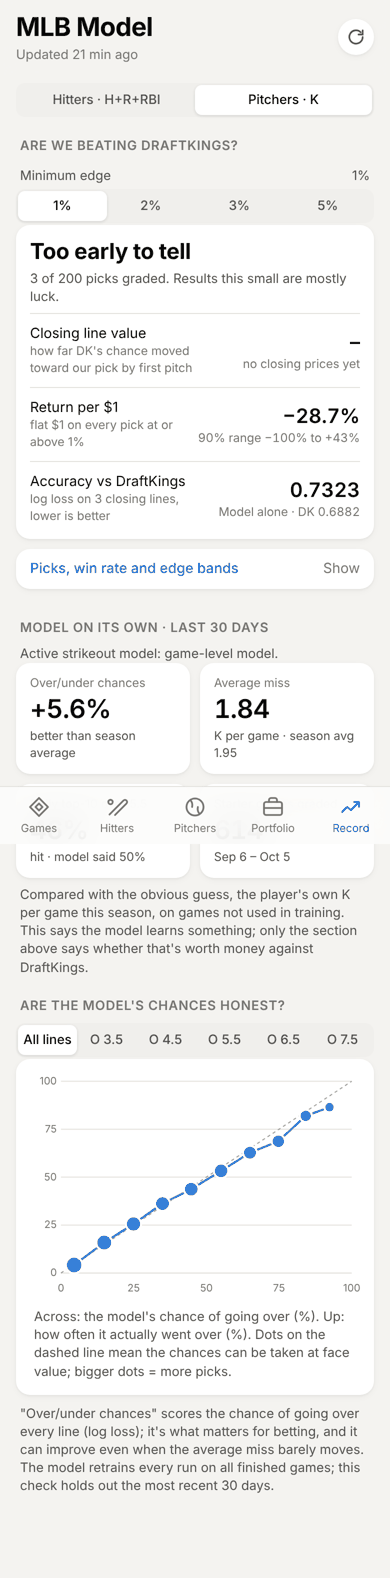
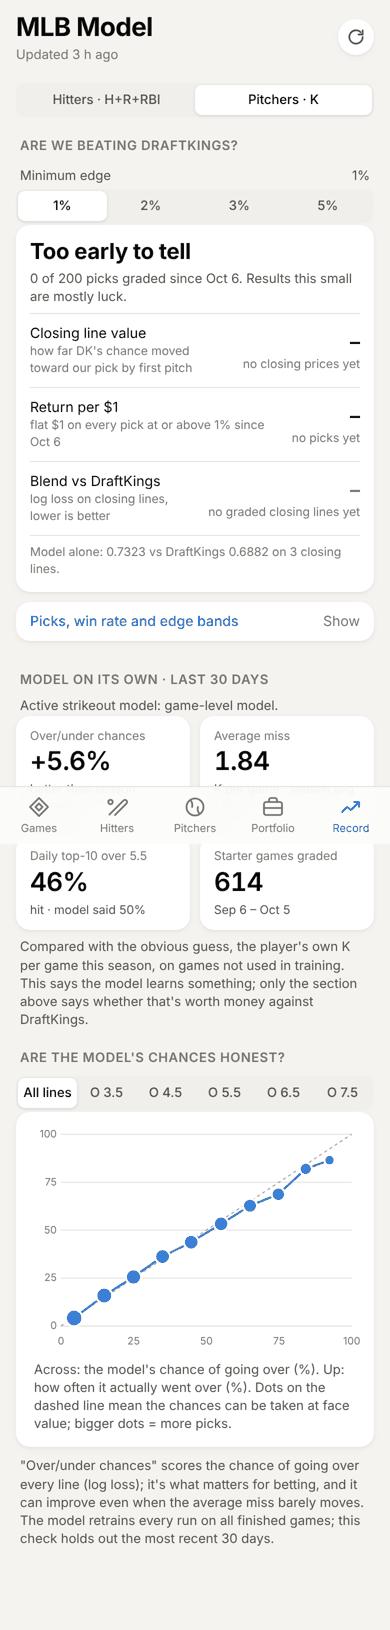
Show blend vs DraftKings and the blend-era start date in Record
The Lead added record.market.<kind>.logloss_blend / logloss_book_blend /
n_lines_blend and picks_since, and now grades picks from the blend era
only. The verdict card's accuracy row is now "Blend vs DraftKings" on
those lines ("no graded closing lines yet" until some exist); the
model-alone log loss stays as a muted footer. The verdict, return row and
pick note say "since Oct 6".

Also: name the live hitter model `dist`; say "no picks yet" instead of
"90% range – to –"; colour the return green only when the whole 90% range
is above zero; reword "Mixed signs" so each case says what is and isn't
there. Cache v15.

Claude-Session: https://claude.ai/code/session_015vKbR4Xd31AW4cDA14bXax

diff --git a/web/app.js b/web/app.js
@@ -548,6 +548,7 @@ function viewPitchers() {
 const MIN_PICKS = 200; // below this, results are mostly luck
 const MODEL_NAMES = {
   current: "game-level model",
+  dist: "hitter distribution model (the whole H+R+RBI distribution from one classifier)",
   pa_simple: "plate-appearance model (each hitter's strikeout chance × batters faced)",
   pa_seq: "batter-by-batter simulation",
   pa_sim: "whole-game simulation (both lineups, plate appearance by plate appearance)",
@@ -561,11 +562,17 @@ function modelNote(kind) {
 
 // The verdict that heads Record: are picks beating DraftKings? Deliberately cautious: it
 // only says "beating" when even the low end of the return range is above zero.
-function verdict(t, few) {
-  if (few) return { cls: "", head: "Too early to tell", sub: `${t.n || 0} of ${MIN_PICKS} picks graded. Results this small are mostly luck.` };
+function verdict(t, few, since) {
+  const from = since ? ` since ${shortDate(since)}` : "";
+  if (few) return { cls: "", head: "Too early to tell", sub: `${t.n || 0} of ${MIN_PICKS} picks graded${from}. Results this small are mostly luck.` };
   const clvUp = t.clv != null && t.clv > 0;
   if (clvUp && t.roi_lo > 0) return { cls: "pos-text", head: "Beating DraftKings", sub: "Positive return across the whole 90% range, and prices moved our way by first pitch." };
-  if (clvUp || t.roi > 0) return { cls: "", head: "Mixed signs", sub: `${t.roi > 0 ? "Return is positive" : "Return is negative"}, ${clvUp ? "but prices moved our way by first pitch" : "and prices didn't move our way by first pitch"}. Not proof of an edge yet.` };
+  if (clvUp || t.roi > 0) {
+    const sub = clvUp && t.roi > 0 ? "Positive return and prices moved our way by first pitch, but the 90% return range still includes a loss."
+      : t.roi > 0 ? "Return is positive, but prices didn't move our way by first pitch."
+      : "Prices moved our way by first pitch, but the return is negative so far.";
+    return { cls: "", head: "Mixed signs", sub };
+  }
   return { cls: "neg-text", head: "Not beating DraftKings", sub: "Negative return and no closing line value so far." };
 }
 
@@ -578,14 +585,17 @@ function marketCard() {
   }
   const t = k.by_threshold[String(state.minEdge)] || { n: 0 };
   const few = (t.n || 0) < MIN_PICKS;
-  const v = verdict(t, few);
+  const v = verdict(t, few, k.picks_since);
   const pts = (x) => (x == null ? "–" : `${x >= 0 ? "+" : "−"}${Math.abs(x).toFixed(1)} pts`);
-  // Log loss on closing lines: the blend's when published, else the model's own, labeled so.
-  const llOurs = k.logloss_blend ?? k.logloss_model;
-  const llWho = k.logloss_blend != null ? "Our chance" : "Model alone";
-  const llRow = llOurs != null && k.logloss_book != null
-    ? `<div class="kv"><span>Accuracy vs DraftKings<small>log loss on ${k.n_lines.toLocaleString()} closing lines, lower is better</small></span>
-        <span><b class="${!few && llOurs < k.logloss_book ? "pos-text" : ""}">${llOurs.toFixed(4)}</b><small>${llWho} · DK ${k.logloss_book.toFixed(4)}</small></span></div>`
+  // Log loss on closing lines, lower is better: our blended chance (what edges use) against
+  // DraftKings on the same lines, then the model alone, kept as a secondary line.
+  const llRow = k.logloss_blend != null
+    ? `<div class="kv"><span>Blend vs DraftKings<small>log loss on ${k.n_lines_blend.toLocaleString()} closing lines, lower is better</small></span>
+        <span><b class="${!few && k.logloss_blend < k.logloss_book_blend ? "pos-text" : ""}">${k.logloss_blend.toFixed(4)}</b><small>DraftKings ${k.logloss_book_blend.toFixed(4)}</small></span></div>`
+    : `<div class="kv"><span>Blend vs DraftKings<small>log loss on closing lines, lower is better</small></span>
+        <span><b class="muted">–</b><small>no graded closing lines yet</small></span></div>`;
+  const modelAlone = k.logloss_model != null
+    ? `<p class="verdict-foot">Model alone: ${k.logloss_model.toFixed(4)} vs DraftKings ${k.logloss_book.toFixed(4)} on ${k.n_lines.toLocaleString()} closing lines.</p>`
     : "";
   const card = `
     <div class="card verdict">
@@ -593,9 +603,10 @@ function marketCard() {
       <p class="verdict-sub">${v.sub}</p>
       <div class="kv"><span>Closing line value<small>how far DK's chance moved toward our pick by first pitch</small></span>
         <span><b class="${!few && t.clv > 0 ? "pos-text" : ""}">${pts(t.clv)}</b><small>${t.clv_pos == null ? "no closing prices yet" : `${pct(t.clv_pos)} beat the close`}</small></span></div>
-      <div class="kv"><span>Return per $1<small>flat $1 on every pick at or above ${pct(state.minEdge)}</small></span>
-        <span><b class="${!few && t.roi > 0 ? "pos-text" : ""}">${signedPct(t.roi, 1)}</b><small>90% range ${signedPct(t.roi_lo, 0)} to ${signedPct(t.roi_hi, 0)}</small></span></div>
+      <div class="kv"><span>Return per $1<small>flat $1 on every pick at or above ${pct(state.minEdge)}${k.picks_since ? ` since ${shortDate(k.picks_since)}` : ""}</small></span>
+        <span><b class="${!few && t.roi_lo > 0 ? "pos-text" : ""}">${signedPct(t.roi, 1)}</b><small>${t.roi == null ? "no picks yet" : `90% range ${signedPct(t.roi_lo, 0)} to ${signedPct(t.roi_hi, 0)}`}</small></span></div>
       ${llRow}
+      ${modelAlone}
     </div>`;
   const sh = k.shadow;
   const shadowLine = sh
@@ -617,7 +628,7 @@ function marketCard() {
       <div class="card"><table><thead><tr><th>Edge</th><th>Picks</th><th>Win</th><th>Return</th><th>CLV</th></tr></thead><tbody>${edgeRows}</tbody></table></div>
       ${lineup}
       ${shadowLine}
-      <p class="note">A pick is the first DraftKings price at or above the edge, $1 flat, graded after the game. Closing line value: how far DraftKings' own chance moved toward the pick by first pitch, in percentage points; beating the close consistently is the surest sign of real value. Log loss scores every closing line, picked or not; if ours isn't lower than DraftKings', we know nothing the price doesn't.</p>
+      <p class="note">A pick is the first DraftKings price at or above the edge, $1 flat, graded after the game. Only prices logged since the blend went live${k.picks_since ? ` (${shortDate(k.picks_since)})` : ""} count; earlier edges came from the model alone. Closing line value: how far DraftKings' own chance moved toward the pick by first pitch, in percentage points; beating the close consistently is the surest sign of real value. Log loss scores every closing line, picked or not; if ours isn't lower than DraftKings', we know nothing the price doesn't.</p>
     </details>`;
 }
 

diff --git a/web/sw.js b/web/sw.js
@@ -1,6 +1,6 @@
 // Offline support: app shell is cached; data.json is network-first so you always get
 // the latest predictions when online and the last ones when not.
-const CACHE = "mlb-model-v14";
+const CACHE = "mlb-model-v15";
 const SHELL = ["./", "index.html", "style.css", "app.js", "manifest.webmanifest", "icons/icon-192.png"];
 
 self.addEventListener("install", (e) => {

diff --git a/web/style.css b/web/style.css
@@ -464,3 +464,4 @@ details.more[open] > summary::after { content: "Hide"; }
 .chart .end { font-size: 12px; font-weight: 600; fill: var(--text-primary); }
 .chart .end.pos { fill: var(--good-text); }
 .chart .end.neg { fill: var(--neg); }
+.verdict-foot { margin: 0; padding: 8px 0 10px; border-top: 0.5px solid var(--border); font-size: 12px; color: var(--text-muted); }
